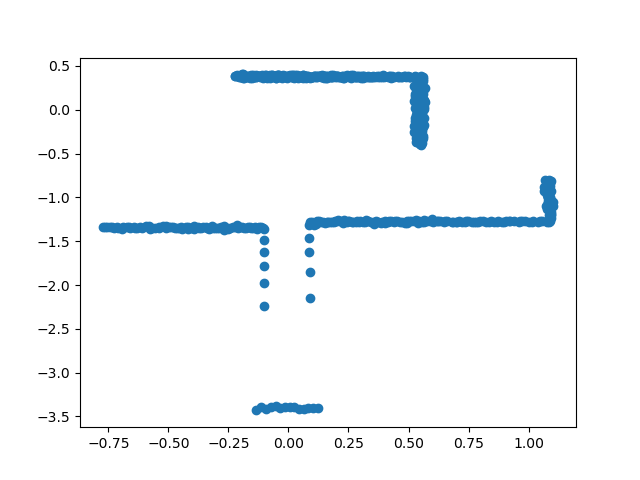
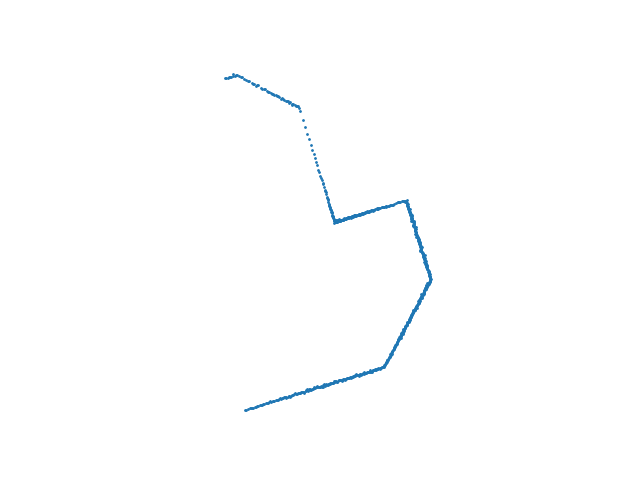
Path lines added

diff --git a/scripts/map_display.py b/scripts/map_display.py
@@ -1,16 +1,20 @@
 from matplotlib.markers import MarkerStyle
 from pylab import *
 
-file = open('/home/pedro/catkin_ws/scripts/sample.txt', "r")
+PATH_TO_CAT = "/home/miguel_roldao/catkin_ws"   # CHANGE THIS WHEN NEEDED!!!
+
+file = open(PATH_TO_CAT + "/scripts/sample.txt", "r")
 content = file.read()
 content=np.array(content)
 
 
 for i in range(1,250):
-    y = np.loadtxt("/home/pedro/catkin_ws/scripts/coordinates/Y"+ str(i) + ".txt")
-    x=np.loadtxt("/home/pedro/catkin_ws/scripts/coordinates/X" + str(i) + ".txt")
-    plt.scatter(x,y)
-    plt.savefig("/home/pedro/catkin_ws/scripts/imagens_mapa/mapa" + str(i))
+    y = np.loadtxt(PATH_TO_CAT + "/scripts/coordinates/Y"+ str(i) + ".txt")
+    x=np.loadtxt(PATH_TO_CAT + "/scripts/coordinates/X" + str(i) + ".txt")
+    plt.scatter(x,y,s=1.0)
+    plt.axis('scaled')
+    plt.axis('off')
+    plt.savefig(PATH_TO_CAT + "/scripts/imagens_mapa/mapa" + str(i))
     plt.close()
 
 

diff --git a/scripts/sensor_analyser.py b/scripts/sensor_analyser.py
@@ -6,6 +6,8 @@ from sensor_msgs.msg import LaserScan
 from ransac_fit import fitar
 import time
 
+PATH_TO_CAT = "/home/miguel_roldao/catkin_ws"   # CHANGE THIS WHEN NEEDED!!!
+
 def ransac_callback(msg_toreceive:LaserScan):
 
     global t0
@@ -28,8 +30,8 @@ def ransac_callback(msg_toreceive:LaserScan):
     if(time.time()-t0>2):
         ni=ni+1
         t0=time.time()
-        np.savetxt("/home/pedro/catkin_ws/scripts/coordinates/X" + str(ni) + ".txt", X)
-        np.savetxt("/home/pedro/catkin_ws/scripts/coordinates/Y" + str(ni) + ".txt", Y)
+        np.savetxt(PATH_TO_CAT + "/scripts/coordinates/X" + str(ni) + ".txt", X)
+        np.savetxt(PATH_TO_CAT + "/scripts/coordinates/Y" + str(ni) + ".txt", Y)
     
     #fitar(X,Y)
 

diff --git a/scripts/ransac_fit.py b/scripts/ransac_fit.py
@@ -2,6 +2,8 @@ import numpy as np
 from matplotlib import pyplot as plt
 from sklearn import linear_model, datasets
 
+PATH_TO_CAT = "/home/miguel_roldao/catkin_ws"   # CHANGE THIS WHEN NEEDED!!!
+
 def fitar(X,Y):
     # Robustly fit linear model with RANSAC algorithm
     plt.scatter(X,Y,s=0.5)
@@ -17,7 +19,7 @@ def fitar(X,Y):
     line_y_ransac = ransac.predict(line_X)
 
     plt.plot(line_X,line_y_ransac,color="cornflowerblue",label="RANSAC regressor",)
-    plt.savefig("/home/pedro/catkin_ws/scripts/imagens_mapa/Ransac")
+    plt.savefig(PATH_TO_CAT + "/scripts/imagens_mapa/Ransac")
     #plt.show()
 
     return line_X,line_y_ransac,inlier_mask,outlier_mask

diff --git a/scripts/myfirstnode.py b/scripts/myfirstnode.py
@@ -5,7 +5,7 @@ if __name__== '__main__':
     rospy.init_node("test_node")
 
     rospy.loginfo("Hello from test node")
-    rospy.logwarn("Thos is a warning")
+    rospy.logwarn("This is a warning")
     rospy.logerr("This is an error")
 
     #rospy.sleep(1.0)

diff --git a/test.py b/test.py
@@ -1,0 +1,8 @@
+import numpy as np
+
+
+x=[]
+for i in range(10):
+	x.append(i)
+
+np.savetxt("../../scripts/coordinates/" + "test" + ".txt", x)
